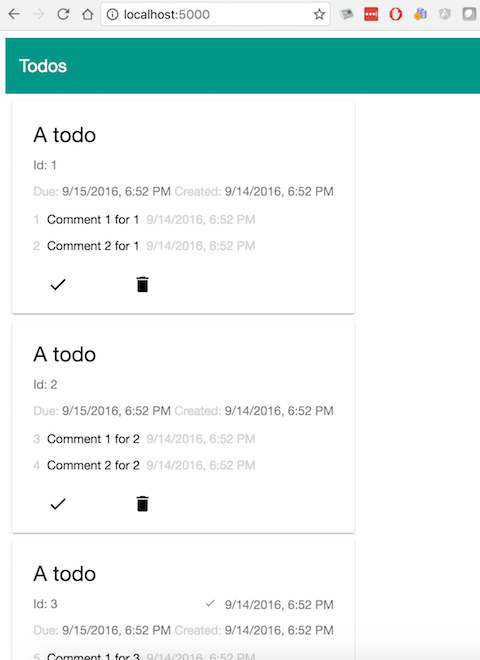
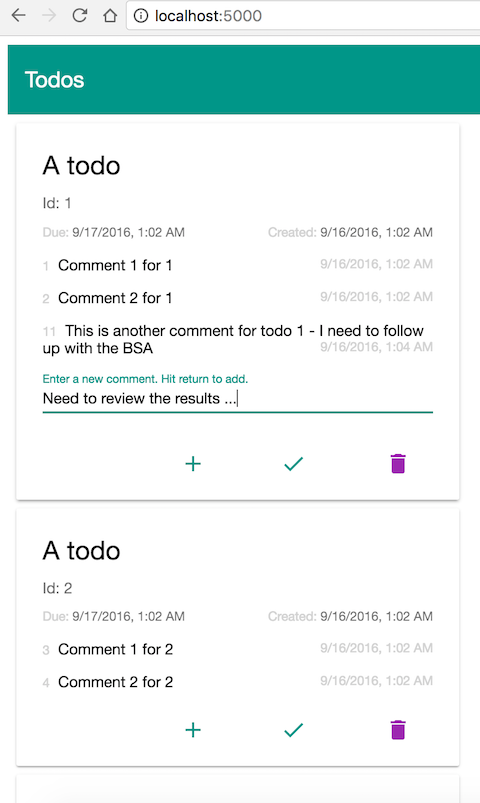
Add comment

diff --git a/src/app/todo.component.html b/src/app/todo.component.html
@@ -1,16 +1,25 @@
 <md-card>
   <md-card-title>{{todo.task}}</md-card-title>
   <md-card-subtitle>Id: {{todo.id}}
-    <span *ngIf="todo.isComplete" class="todo-complete">
+    <span *ngIf="todo.isComplete" class="todo-smaller todo-right">
       <md-icon style="font-size: 14px;">done</md-icon>{{todo.completeDate | date: 'short'}}
     </span>
-    <p><span class="todo-label">Due:</span> {{todo.dueDate | date: 'short'}} <span class="todo-label">Created:</span> {{todo.createDate | date: 'short'}}</p>
+    <p class="todo-smaller">
+      <span class="todo-label">Due:</span> {{todo.dueDate | date: 'short'}}
+      <span class="todo-right">
+        <span class="todo-label">Created:</span> {{todo.createDate | date: 'short'}}
+      </span>
+    </p>
   </md-card-subtitle>
   <md-card-content>
     <p *ngFor="let todoComment of todo.todoComments" [todoComment]="todoComment"></p>
+    <div *ngIf="addingComment">
+      <md-input id="newComment" placeholder="Enter a new comment. Hit return to add." style="width: 100%;" [(ngModel)]="this.newComment" (change)="addComment()"></md-input>
+    </div>
   </md-card-content>
-  <md-card-actions>
-    <button md-button (click)="this.todoList.toggleComplete(todo)"><md-icon>done</md-icon></button>
-    <button md-button (click)="this.todoList.delete(todo)"><md-icon>delete</md-icon></button>
+  <md-card-actions align="end">
+    <button md-button (click)="addingComment=!addingComment" color="primary"><md-icon>add</md-icon></button>
+    <button md-button (click)="todoList.toggleComplete(todo)" color="primary"><md-icon>done</md-icon></button>
+    <button md-button (click)="todoList.delete(todo)" color="accent"><md-icon>delete</md-icon></button>
   </md-card-actions>
 </md-card>

diff --git a/src/app/todo-list.module.ts b/src/app/todo-list.module.ts
@@ -1,11 +1,13 @@
 import { NgModule }      from '@angular/core';
 import { BrowserModule } from '@angular/platform-browser';
+import { FormsModule } from '@angular/forms';
 import { HttpModule, JsonpModule } from '@angular/http';
 
 import { MdButtonModule } from '@angular2-material/button';
 import { MdCardModule } from '@angular2-material/card';
 import { MdCoreModule } from '@angular2-material/core';
 import { MdIconModule } from '@angular2-material/icon';
+import { MdInputModule } from '@angular2-material/input';
 
 import { TodoListComponent }   from './todo-list.component';
 import { TodoComponent }       from './todo.component';
@@ -13,11 +15,12 @@ import { TodoCommentComponent }from './todo-comment.component';
 
 @NgModule({
   imports:      [
-    BrowserModule, HttpModule, JsonpModule,
+    BrowserModule, FormsModule, HttpModule, JsonpModule,
     MdButtonModule,
     MdCardModule,
     MdCoreModule,
-    MdIconModule
+    MdIconModule,
+    MdInputModule
   ],
   declarations: [ TodoListComponent, TodoComponent, TodoCommentComponent ],
   exports:      [ TodoListComponent, TodoComponent, TodoCommentComponent ]

diff --git a/src/app/todos.service.ts b/src/app/todos.service.ts
@@ -6,7 +6,7 @@ import { Observable }     from 'rxjs/Observable';
 import './rxjs-operators';
 
 
-import { Todo } from './todo.model';
+import { Todo, TodoComment } from './todo.model';
 
 @Injectable()
 export class TodosService {
@@ -33,6 +33,13 @@ export class TodosService {
 
     putTodo(todo: Todo): Observable<Todo[]> {
         return this.http.post('api/todos/' + todo.id, todo)
+                        .map((res: Response) => res.json())
+                        .catch(this.handleError);
+    }
+
+    postTodoComment(id: number, comment: string): Observable<Todo[]> {
+        let todoComment = new TodoComment(0, comment, new Date(), id);
+        return this.http.post('api/todos/' + id + '/comment', todoComment)
                         .map((res: Response) => res.json())
                         .catch(this.handleError);
     }

diff --git a/src/app/todo-list.component.ts b/src/app/todo-list.component.ts
@@ -20,8 +20,8 @@ export class TodoListComponent implements OnInit {
     private todosService: TodosService
   ) {}
 
-  getTodos() {
-    this.todosService.getTodos()
+  addComment(todo: Todo, comment: string) {
+    this.todosService.postTodoComment(todo.id, comment)
       .subscribe(
         todos => this.todos = todos,
         error => this.errorMessage = < any > error
@@ -30,6 +30,14 @@ export class TodoListComponent implements OnInit {
 
   delete (todo: Todo) {
     this.todosService.deleteTodo(todo.id)
+      .subscribe(
+        todos => this.todos = todos,
+        error => this.errorMessage = < any > error
+      );
+  }
+
+  getTodos() {
+    this.todosService.getTodos()
       .subscribe(
         todos => this.todos = todos,
         error => this.errorMessage = < any > error

diff --git a/src/app/todo-comment.component.ts b/src/app/todo-comment.component.ts
@@ -4,9 +4,7 @@ import { TodoComment } from './todo.model';
 
 @Component({
   selector: 'p[todoComment]',
-  template: `<span class="todocomment-id">{{todoComment.id}}</span>&nbsp;
-  {{todoComment.text}}&nbsp;
-  <span class="todocomment-updated">{{todoComment.updatedOn | date: 'short'}}</span>`
+  templateUrl: 'app/todo-comment.component.html'
 })
 export class TodoCommentComponent {
   @Input() todoComment: TodoComment;

diff --git a/src/css/styles.css b/src/css/styles.css
@@ -1,17 +1,26 @@
 todo>md-card {
   margin: 0.5em;
-  width: fit-content;
+  width: 406px;
+  box-sizing: border-box;
 }
 
 .todo-label {
   color: lightgray;
 }
 
-.todo-complete {
+.todo-right {
   float: right;
+}
+
+.todo-smaller {
+  font-size: smaller;
 }
 
 .todocomment-id,
 .todocomment-updated {
   color: lightgray;
+}
+
+.todocomment-text {
+  color: "primary";
 }

diff --git a/src/app/todo.component.ts b/src/app/todo.component.ts
@@ -12,5 +12,14 @@ export class TodoComponent {
   @Input() todo: Todo;
   @Input() todoList: TodoListComponent;
 
-  constructor() {}
+  addingComment: boolean;
+  newComment: string;
+
+  constructor() {
+    this.addingComment = false;
+  }
+
+  addComment() {
+    this.todoList.addComment(this.todo, this.newComment);
+  }
 }

diff --git a/src/app/todo-comment.component.html b/src/app/todo-comment.component.html
@@ -1,0 +1,3 @@
+<span class="todocomment-id todo-smaller">{{todoComment.id}}</span>&nbsp;
+<span class="todocomment-text">{{todoComment.text}}</span>&nbsp;
+<span class="todo-smaller todo-right todocomment-updated">{{todoComment.updatedOn | date: 'short'}}</span>

diff --git a/src/systemjs.config.ts b/src/systemjs.config.ts
@@ -50,6 +50,7 @@ const barrels: string[] = [
   '@angular/core',
   '@angular/common',
   '@angular/compiler',
+  '@angular/forms',
   '@angular/http',
   '@angular/router',
   '@angular/platform-browser',

diff --git a/Controllers/TodosController.cs b/Controllers/TodosController.cs
@@ -57,6 +57,29 @@ namespace todocore.Controllers
             return Get();
         }
 
+        // POST api/todos/5/comment
+        // Create a todo comment based on the {todo} and {comment} passed in.
+        [HttpPost("{id:int}/comment")]
+        public IEnumerable<Todo> PostComment(int id, [FromBody]TodoComment todoComment)
+        {
+            var todos = Get(id);
+            if(todos.Count() > 0)
+            {
+                foreach (var todo in todos)
+                {
+                    todoComment.UpdatedOn = DateTime.Now.ToUniversalTime();
+                    todoComment.TodoId = todo.Id;
+                    ctx.TodoComments.Add(todoComment);
+
+                    ctx.Todos.Update(todo);
+                    ctx.SaveChanges();
+                    break;
+                }
+            }
+
+            return Get();
+        }
+
         // PUT api/todos/5
         // Update the todo with Id of {id} based on the {todo} passed in. 
         [HttpPut("{id:int}")]

diff --git a/README.md b/README.md
@@ -59,6 +59,14 @@ content-type: application/json
 {todo as JSON}
 ```
 
+### Create a todo comment for todo 5 based on the {todoComment} passed in. Note only the text field is used.
+```http
+POST api/todos/5/comment HTTP/1.1
+content-type: application/json
+
+{todoComment as JSON}
+```
+
 ### Update the todo with Id of 5 based on the {todo} passed in. By default the {todo} is expected in JSON format; return the list of todos as JSON
 ```http
 PUT api/todos/5 HTTP/1.1
